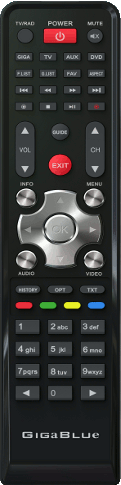
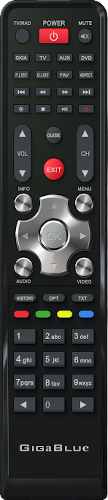
[gb1] cleanup (#59)
Replace rc.png with a new image scaled from one supplied by Abu.
This image should be clearer than the previous image.

In rcpositions.xml, add buttons EPG, FAV, SCREEN, BOUQUET+/-, MEDIA,
PLAYLIST, SCREEN, TIMER, OPT and HISTORY.  Rename button FORWARD
to FASTFORWARD, PVR to VIDEO.  Remove incorrect PLAY & PAUSE buttons.
Remove SHIFT button.

In remote.html, correct the size of the Timer rect entry. Remove
entries with duplicate keycodes. Ensure that keycodes in remote.html
match the keycodes in rcpositions.html.

Adjust button positions, and rescale them to match the new remote
image.

Convert rcpositions.xml to the new merged form and remap the OPT button
to HELP.

diff --git a/BoxBranding/remotes/gb1/remote.html b/BoxBranding/remotes/gb1/remote.html
@@ -1,56 +1,52 @@
-<img border='0' src='/static/remotes/gb1/rc.png' usemap='#map' >
+<img border="0" src="/static/remotes/gb1/rc.png" usemap="#map" >
 <map name="map">
-	<area shape="circle" coords="26,36,8" title="tvrad" onclick="pressMenuRemote('377');">
-	<area shape="rect" coords="44,29,76,43" title="power" onclick="pressMenuRemote('116');">
-	<area shape="circle" coords="95,36,8" title="mute" onclick="pressMenuRemote('113');">
-<!-- 	<area shape="rect" coords="15,47,35,56" title="f1" onclick="pressMenuRemote('59');">
-	<area shape="rect" coords="39,47,58,56" title="f2" onclick="pressMenuRemote('64');">
-	<area shape="rect" coords="62,47,81,56" title="f3" onclick="pressMenuRemote('61');">
-	<area shape="rect" coords="85,47,105,56" title="f4" onclick="pressMenuRemote('62');"> -->
-	<area shape="rect" coords="17,71,32,77" title="flist" onclick="pressMenuRemote('226');">
-	<area shape="rect" coords="40,71,56,77" title="glist" onclick="pressMenuRemote('395');">
-	<area shape="rect" coords="64,71,80,77" title="fav" onclick="pressMenuRemote('364');">
-	<area shape="rect" coords="88,71,105,77" title="aspect" onclick="pressMenuRemote('375');">
-	<area shape="rect" coords="16,386,38,400" title="arrowleft" onclick="pressMenuRemote('412');">
-	<area shape="rect" coords="40,86,56,93" title="rewind" onclick="pressMenuRemote('168');">
-	<area shape="rect" coords="64,86,80,93" title="forward" onclick="pressMenuRemote('208');">
-	<area shape="rect" coords="81,386,104,400" title="arrowright" onclick="pressMenuRemote('407');">
-	<area shape="rect" coords="40,103,32,110" title="timer" onclick="pressMenuRemote('362');">
-	<area shape="rect" coords="39,103,56,110" title="stop" onclick="pressMenuRemote('128');">
-	<area shape="rect" coords="64,103,80,110" title="playpause" onclick="pressMenuRemote('164');">
-	<area shape="rect" coords="88,103,105,110" title="record" onclick="pressMenuRemote('167');">
-	<area shape="circle" coords="25,131,10" title="volume up" onclick="pressMenuRemote('115');">
-	<area shape="circle" coords="60,132,12" title="epg" onclick="pressMenuRemote('365');">
-	<area shape="circle" coords="94,131,10" title="channel up" onclick="pressMenuRemote('402');">
-	<area shape="circle" coords="25,168,10" title="volume down" onclick="pressMenuRemote('114');">
-	<area shape="circle" coords="59,164,14" title="exit" onclick="pressMenuRemote('174');">
-	<area shape="circle" coords="95,168,10" title="channel down" onclick="pressMenuRemote('403');">
-	<area shape="circle" coords="26,198,14" title="info" onclick="pressMenuRemote('358');">
-	<area shape="circle" coords="93,198,14" title="menu" onclick="pressMenuRemote('139');">
-	<area shape="circle" coords="60,200,10" title="up" onclick="pressMenuRemote('103');">
-	<area shape="circle" coords="28,230,10" title="left" onclick="pressMenuRemote('105');">
-	<area shape="circle" coords="60,230,15" title="ok" onclick="pressMenuRemote('352');">
-	<area shape="circle" coords="92,230,10" title="right" onclick="pressMenuRemote('106');">
-	<area shape="circle" coords="60,260,10" title="down" onclick="pressMenuRemote('108');">
-	<area shape="circle" coords="26,260,14" title="audio" onclick="pressMenuRemote('392');">
-	<area shape="circle" coords="93,260,14" title="video" onclick="pressMenuRemote('393');">
-	<area shape="rect" coords="16,286,38,293" title="history" onclick="pressMenuRemote('361');">
-	<area shape="rect" coords="49,286,71,293" title="opt" onclick="pressMenuRemote('370');">
-	<area shape="rect" coords="81,286,102,293" title="text" onclick="pressMenuRemote('388');">
-	<area shape="rect" coords="16,302,32,308" title="red" onclick="pressMenuRemote('398');">
-	<area shape="rect" coords="40,302,56,308" title="green" onclick="pressMenuRemote('399');">
-	<area shape="rect" coords="63,302,79,308" title="yellow" onclick="pressMenuRemote('400');">
-	<area shape="rect" coords="88,302,104,308" title="blue" onclick="pressMenuRemote('401');">
-	<area shape="rect" coords="16,320,39,334" title="1" onclick="pressMenuRemote('2');">
-	<area shape="rect" coords="48,320,73,334" title="2" onclick="pressMenuRemote('3');">
-	<area shape="rect" coords="81,320,104,334" title="3" onclick="pressMenuRemote('4');">
-	<area shape="rect" coords="16,342,39,356" title="4" onclick="pressMenuRemote('5');">
-	<area shape="rect" coords="47,342,73,356" title="5" onclick="pressMenuRemote('6');">
-	<area shape="rect" coords="78,342,104,356" title="6" onclick="pressMenuRemote('7');">
-	<area shape="rect" coords="16,364,39,378" title="7" onclick="pressMenuRemote('8');">
-	<area shape="rect" coords="47,364,73,378" title="8" onclick="pressMenuRemote('9');">
-	<area shape="rect" coords="78,364,104,378" title="9" onclick="pressMenuRemote('10');">
-	<area shape="rect" coords="16,86,32,93" title="previous" onclick="pressMenuRemote('412');">
-	<area shape="rect" coords="47,386,73,400" title="0" onclick="pressMenuRemote('11');">
-	<area shape="rect" coords="88,86,104,93" title="next" onclick="pressMenuRemote('407');">
+	<area shape="circle" title="tvrad" coords="22,36,7" onclick="pressMenuRemote('377');">
+	<area shape="rect" title="power" coords="40,29,68,44" onclick="pressMenuRemote('116');">
+	<area shape="circle" title="mute" coords="84,36,7" onclick="pressMenuRemote('113');">
+	<area shape="rect" title="flist" coords="12,71,28,80" onclick="pressMenuRemote('226');">
+	<area shape="rect" title="glist" coords="34,71,50,80" onclick="pressMenuRemote('395');">
+	<area shape="rect" title="fav" coords="56,71,72,80" onclick="pressMenuRemote('364');">
+	<area shape="rect" title="aspect" coords="77,71,93,80" onclick="pressMenuRemote('375');">
+	<area shape="rect" title="arrowleft" coords="12,89,28,98" onclick="pressMenuRemote('412');">
+	<area shape="rect" title="rewind" coords="34,89,50,98" onclick="pressMenuRemote('168');">
+	<area shape="rect" title="forward" coords="56,89,72,98" onclick="pressMenuRemote('208');">
+	<area shape="rect" title="arrowright" coords="77,89,93,98" onclick="pressMenuRemote('407');">
+	<area shape="rect" title="timer" coords="12,105,28,114" onclick="pressMenuRemote('362');">
+	<area shape="rect" title="stop" coords="34,105,50,114" onclick="pressMenuRemote('128');">
+	<area shape="rect" title="playpause" coords="56,105,72,114" onclick="pressMenuRemote('164');">
+	<area shape="rect" title="record" coords="78,105,94,114" onclick="pressMenuRemote('167');">
+	<area shape="circle" title="volume up" coords="22,134,8" onclick="pressMenuRemote('115');">
+	<area shape="circle" title="epg" coords="54,136,8" onclick="pressMenuRemote('365');">
+	<area shape="circle" title="channel up" coords="85,134,8" onclick="pressMenuRemote('402');">
+	<area shape="circle" title="volume down" coords="22,174,8" onclick="pressMenuRemote('114');">
+	<area shape="circle" title="exit" coords="54,169,10" onclick="pressMenuRemote('174');">
+	<area shape="circle" title="channel down" coords="85,174,8" onclick="pressMenuRemote('403');">
+	<area shape="circle" title="info" coords="24,203,10" onclick="pressMenuRemote('358');">
+	<area shape="circle" title="menu" coords="84,203,10" onclick="pressMenuRemote('139');">
+	<area shape="circle" title="up" coords="54,204,9" onclick="pressMenuRemote('103');">
+	<area shape="circle" title="left" coords="24,236,9" onclick="pressMenuRemote('105');">
+	<area shape="circle" title="ok" coords="54,236,13" onclick="pressMenuRemote('352');">
+	<area shape="circle" title="right" coords="84,236,9" onclick="pressMenuRemote('106');">
+	<area shape="circle" title="down" coords="54,269,9" onclick="pressMenuRemote('108');">
+	<area shape="circle" title="audio" coords="24,267,10" onclick="pressMenuRemote('392');">
+	<area shape="circle" title="video" coords="84,267,10" onclick="pressMenuRemote('393');">
+	<area shape="rect" title="history" coords="13,293,36,303" onclick="pressMenuRemote('361');">
+	<area shape="rect" title="opt" coords="41,293,65,303" onclick="pressMenuRemote('138');">
+	<area shape="rect" title="text" coords="71,294,94,303" onclick="pressMenuRemote('388');">
+	<area shape="rect" title="red" coords="13,310,29,319" onclick="pressMenuRemote('398');">
+	<area shape="rect" title="green" coords="35,310,51,319" onclick="pressMenuRemote('399');">
+	<area shape="rect" title="yellow" coords="57,310,73,319" onclick="pressMenuRemote('400');">
+	<area shape="rect" title="blue" coords="78,310,94,319" onclick="pressMenuRemote('401');">
+	<area shape="rect" title="1" coords="13,329,36,345" onclick="pressMenuRemote('2');">
+	<area shape="rect" title="2" coords="42,329,65,345" onclick="pressMenuRemote('3');">
+	<area shape="rect" title="3" coords="71,329,94,345" onclick="pressMenuRemote('4');">
+	<area shape="rect" title="4" coords="13,351,36,367" onclick="pressMenuRemote('5');">
+	<area shape="rect" title="5" coords="42,351,65,367" onclick="pressMenuRemote('6');">
+	<area shape="rect" title="6" coords="71,351,94,367" onclick="pressMenuRemote('7');">
+	<area shape="rect" title="7" coords="13,374,36,390" onclick="pressMenuRemote('8');">
+	<area shape="rect" title="8" coords="42,374,65,390" onclick="pressMenuRemote('9');">
+	<area shape="rect" title="9" coords="71,374,94,390" onclick="pressMenuRemote('10');">
+	<area shape="rect" title="previous" coords="13,397,36,413" onclick="pressMenuRemote('412');">
+	<area shape="rect" title="0" coords="42,397,65,413" onclick="pressMenuRemote('11');">
+	<area shape="rect" title="next" coords="71,397,94,413" onclick="pressMenuRemote('407');">
 </map>
